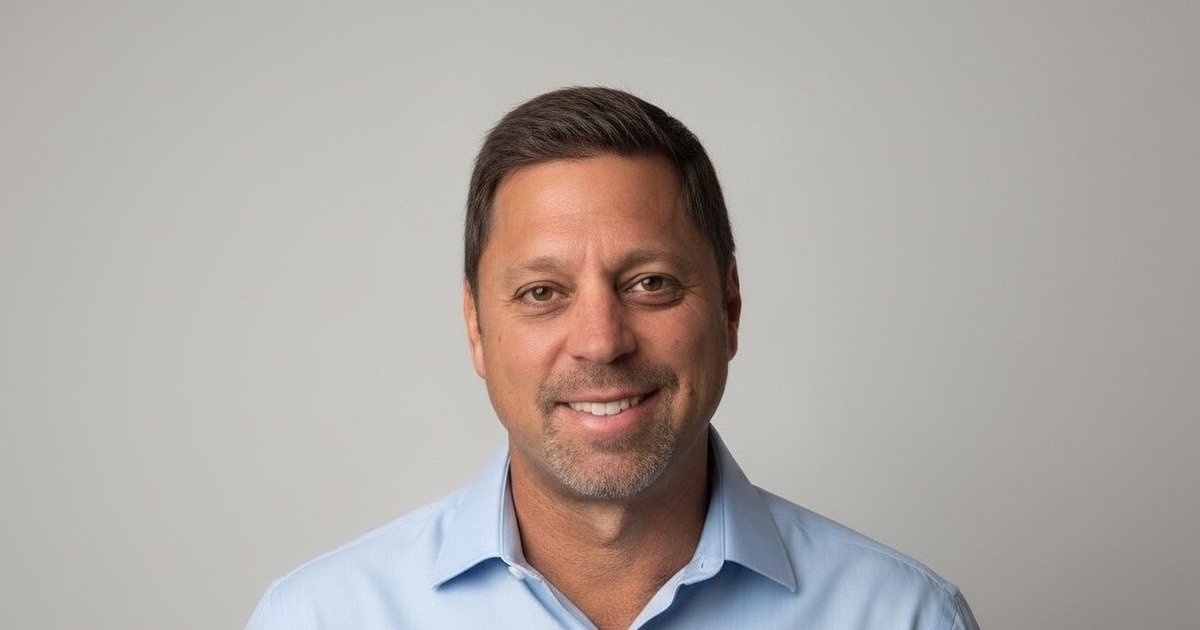
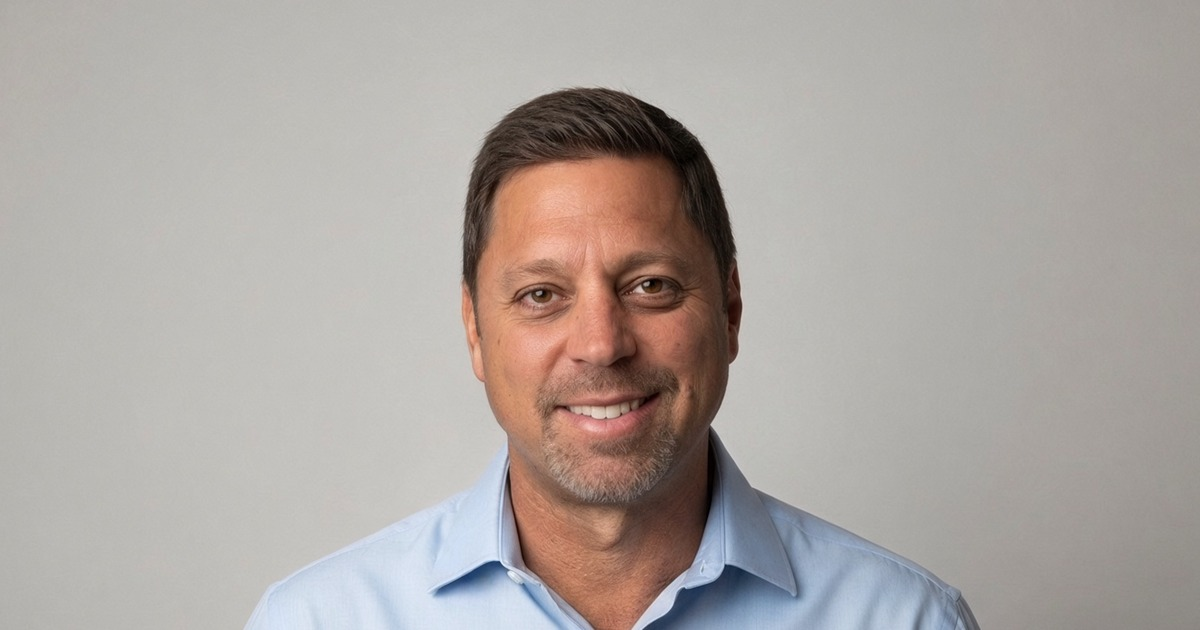
New headshot, and the share card rebuilt from the same frame
Both ship together so the homepage portrait and the preview card are the same
photograph. Shipping the portrait alone would have left every share card on
the old shot, because social-home.jpg is a separate crop of the original
rather than a derivative of headshot.jpg.

Source is the light-background frame of the 2026-09 reshoot, not the navy one.
That is a mechanical choice, not a stylistic one: the key in tools/headshot.py
scores a pixel as backdrop from low chroma and high luma, so it finds 63.8% of
the light frame and 0.1% of the navy one, and the deep-backdrop sample would
come back empty. Step 3 composites onto INK either way, so the source backdrop
only decides whether the key can find it.

headshot.jpg, through the documented recipe:

  backdrop sampled      (189,188,184) against the documented (191,190,186)
  fractional alpha      1.11%   target ~1%
  halo overshoot        +6.6 luma with decontamination, +13.6 without
  framing               head centre offset 0px vs the previous file
  ground                bit-exact rgb(6,16,25), so no text contrast moves

social-home.jpg is a plain 1.91:1 crop on the grey backdrop, not the ink
composite -- HANDOFF is explicit that the background key must not be run for
the card. Framing is measured off the shipped card rather than guessed: head
0.235 of frame width, head top 0.140 of frame height, centred at 0.501. Judged
at 500px feed size against the old card.
[…]

diff --git a/tools/headshot.py b/tools/headshot.py
@@ -25,7 +25,15 @@ import numpy as np
 from PIL import Image
 from scipy import ndimage
 
-SRC   = "Site photos/Headshot1.JPG"
+# The 2026-09 reshoot supersedes Headshot1.JPG. Jesse supplied the same frame on
+# two backdrops; this is the light one, and that is not a stylistic choice. The
+# key on line ~70 scores a pixel as backdrop from LOW chroma and HIGH luma, so
+# the navy version scores 0.1% of its frame as backdrop against this one's 63.8%
+# and the deep-backdrop sample below would come back empty. The backdrop is
+# replaced by INK either way, so the source backdrop only decides whether the
+# key can find it. Override with --src for a future shoot.
+SRC   = ("Site photos/updated head shot with light background.jpg"
+         if "--src" not in sys.argv else sys.argv[sys.argv.index("--src") + 1])
 INK   = np.array([6, 16, 25], float)
 OUT_W, OUT_H = 605, 757
 DECON = "--no-decon" not in sys.argv
@@ -49,10 +57,11 @@ hx = np.where(head.any(0))[0]
 cx = (hx.min() + hx.max()) // 2
 
 cw = int(round(H * OUT_W / OUT_H))
-# The centroid below lands ~20 source px right of the framing the published
-# headshot uses. Nudge back so a rebuild is registered with the existing file
-# and the only visible change is the edge, not an 8px reframe.
-FRAMING_NUDGE = -20
+# Head-centroid detection is approximate, so this nudges the crop to keep the
+# face where the page expects it. Re-derive it per source: the value below is
+# for the 2026-09 light-backdrop frame, measured by comparing head width and
+# centre against the previous published file. It was -20 for Headshot1.JPG.
+FRAMING_NUDGE = int(sys.argv[sys.argv.index("--nudge") + 1]) if "--nudge" in sys.argv else -13
 x0 = int(np.clip(cx - cw // 2 + FRAMING_NUDGE, 0, W - cw))
 a = a[:, x0:x0 + cw]
 L = a.mean(2)
@@ -82,6 +91,9 @@ band = ndimage.binary_dilation(M, iterations=10)
 
 alpha = np.where(band, 1.0 - s, 1.0)          # subject opacity
 alpha = np.clip(alpha, 0, 1)
+# Measured here, before the fade in step 5 turns the whole lower half
+# fractional by design and makes the number meaningless.
+KEY_FRAC_EDGE = ((alpha > 0.05) & (alpha < 0.999)).mean() * 100
 
 # ---- 3. sample the backdrop, then decontaminate the edge -------------------
 deep = ndimage.binary_erosion(s > 0.95, iterations=4)
@@ -126,3 +138,8 @@ q, n_bytes, data = best
 open(OUT, "wb").write(data)
 print(f"{OUT}: {OUT_W}x{OUT_H} q={q} {n_bytes/1024:.1f}KB "
       f"decontamination={'ON' if DECON else 'OFF'} backdrop B={B.round(1)}")
+print(f"  src={SRC}  crop={cw}x{H} ({cw/OUT_W:.2f}x downsample)  nudge={FRAMING_NUDGE}")
+# HANDOFF: fractional-alpha pixels should be ~1% of the frame; 7% is already
+# wrong. Printed rather than assumed, because it is the first thing that drifts
+# when the source changes.
+print(f"  fractional-alpha pixels: {KEY_FRAC_EDGE:.2f}%  (target ~1%, >5% means the luma ramp is too wide)")
